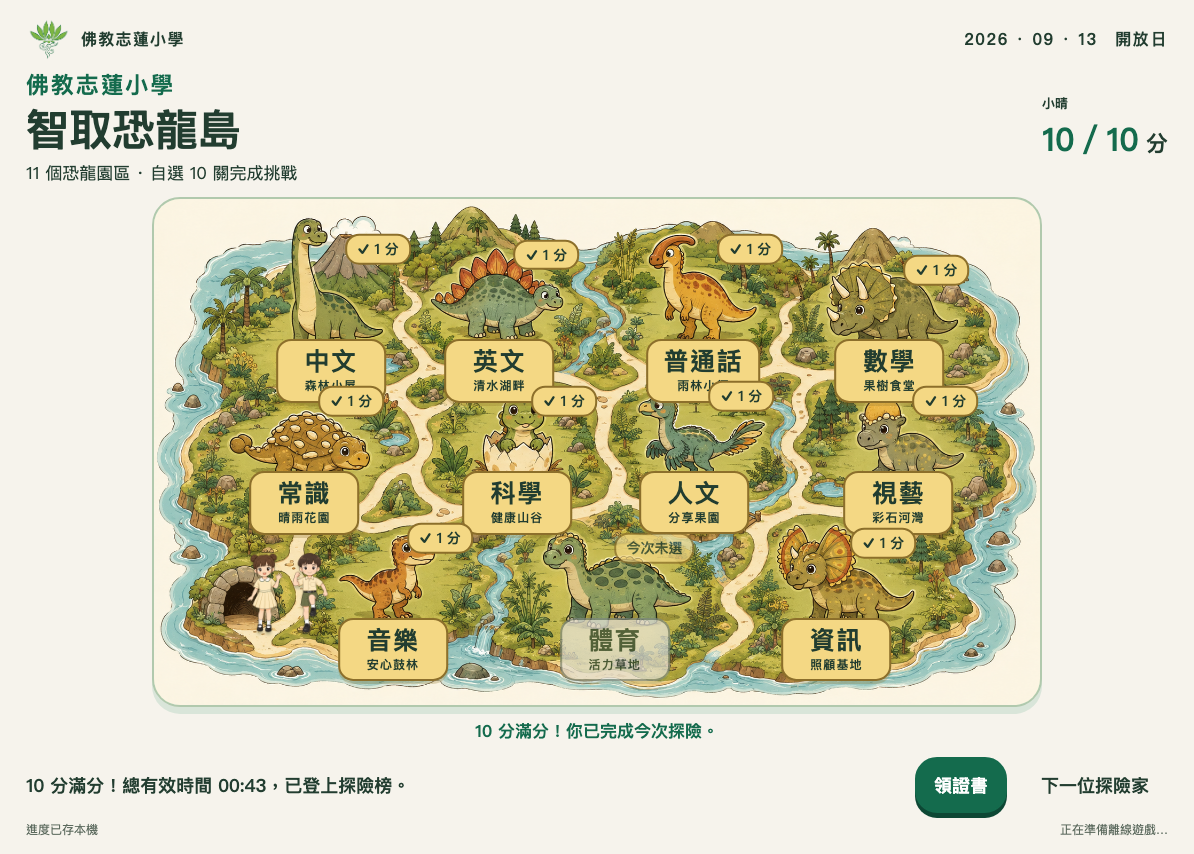
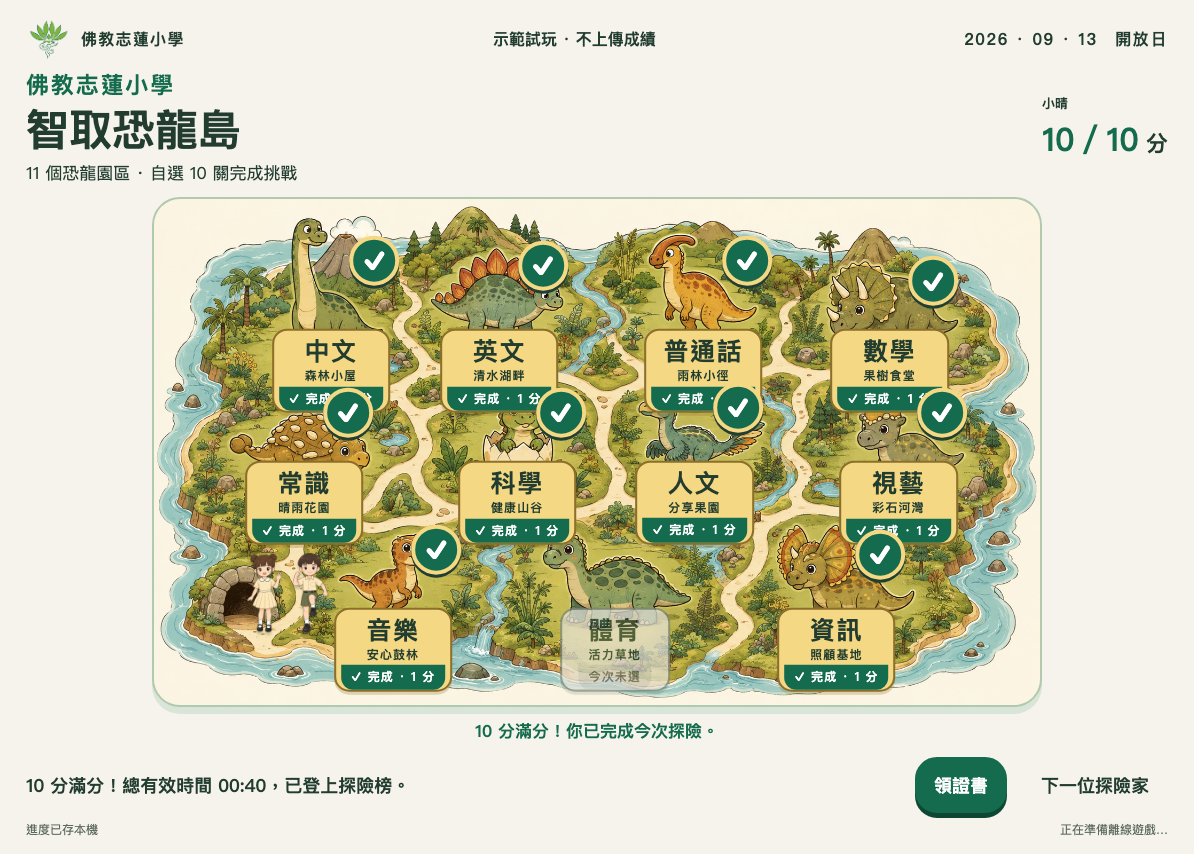
Clarify completed park status

diff --git a/shared/style.css b/shared/style.css
@@ -1,4 +1,4 @@
-:root{--cream:#f6f3ec;--green:#146b4d;--ink:#223d30;--gold:#b8923a;--pale:#e7eddc;--line:#243f31;font-family:"PingFang HK","Noto Sans HK","Microsoft JhengHei",system-ui,sans-serif;color:var(--ink);background:var(--cream);font-synthesis:none}*{box-sizing:border-box}body{margin:0}button,input,a{font:inherit}button,a,input{-webkit-tap-highlight-color:transparent}button{cursor:pointer;touch-action:manipulation}button:disabled{cursor:default;opacity:.5}button:focus-visible,a:focus-visible,input:focus-visible{outline:5px solid #dcaf3d;outline-offset:5px}button{color:var(--ink)}a{color:var(--green)}h1,h2,p{margin:0}h1{font-size:clamp(36px,5vw,68px);line-height:1.14;letter-spacing:.035em}h2{font-size:clamp(26px,3vw,42px)}p{line-height:1.65}button{border:2px solid var(--line);background:var(--cream);border-radius:22px;min-height:64px;padding:12px 23px;font-weight:700;font-size:20px}.primary{background:var(--green);color:white;border-color:var(--green);box-shadow:0 5px 0 #0d4734}.gold{background:#e9cd78;color:var(--ink)}.quiet{background:transparent;border-color:transparent}.icon{width:58px;height:58px;vertical-align:middle;flex-shrink:0}.small-icon{width:27px;height:27px}.eyebrow{font-size:16px;letter-spacing:.17em;font-weight:800;color:var(--green)}.shell{max-width:1400px;margin:auto;padding:24px 34px;min-height:100svh}.topbar{display:flex;align-items:center;justify-content:space-between;gap:16px;margin-bottom:16px}.brand{font-weight:800;letter-spacing:.08em;display:flex;gap:10px;align-items:center}.brand img{width:45px;height:45px;object-fit:contain}.date{font-size:16px;font-weight:700;letter-spacing:.1em}.subtle{font-size:14px;color:#5d6b5f}.pill{padding:10px 18px;border:1px solid #c7ceba;border-radius:40px;background:#fff9;white-space:nowrap}.welcome{min-height:calc(100svh - 100px);display:grid;grid-template-columns:1.04fr 1fr;gap:20px;align-items:center}.welcome-copy{padding:20px 0}.welcome h1{margin:17px 0 20px}.welcome .question{max-width:490px;font-size:22px}.nickname{margin-top:28px;max-width:465px}.nickname label{display:block;font-weight:700;margin-bottom:10px}.input-wrap{display:flex;align-items:center;border:2px solid #aab59c;background:#fff;border-radius:19px;padding-right:18px}.nickname input{width:100%;border:0;background:none;font-size:26px;padding:17px;min-width:0;outline:none}.nickname .primary{margin-top:15px;width:100%;font-size:25px;min-height:74px}.nickname .subtle{margin-top:10px}.welcome-art{position:relative;min-height:470px;border-radius:50% 50% 44% 46%;background:#e4ebd7;overflow:hidden;border:1px solid #d1dbbf}.welcome-art:before{content:"";position:absolute;inset:60% -15% -35%;background:#cbd8b2;border-radius:50%}.character{object-fit:contain;user-select:none;-webkit-user-drag:none;pointer-events:none}.welcome-art .boy{position:absolute;width:63%;height:82%;left:0;bottom:7%;z-index:1}.welcome-art .dino{position:absolute;width:53%;height:65%;right:-1%;bottom:2%;z-index:2}.art-label{position:absolute;left:25%;top:23px;transform:rotate(-5deg);background:var(--cream);border:2px solid var(--ink);border-radius:16px;padding:10px 18px;font-size:20px;font-weight:bold;z-index:3}.bottom-note{display:flex;gap:16px;align-items:center;justify-content:space-between;margin-top:16px}.progress-label{font-size:22px;font-weight:800}.progress-label strong{color:var(--green);font-size:32px}.park-page{padding:16px 26px}.park-page .topbar{margin-bottom:9px}.map-header{display:flex;justify-content:space-between;align-items:center;gap:12px;margin-bottom:10px}.map-header h2{font-size:clamp(34px,3.6vw,46px);line-height:1.2;margin:3px 0}.map-header p:not(.eyebrow){font-size:17px}.map-header .eyebrow{font-size:13px}.map-header>div:first-child{flex:1}.map-header>.progress-label{white-space:nowrap}.map-viewport{width:min(100%,calc((100svh - 325px)*1.75));min-width:min(100%,735px);max-width:1225px;margin-inline:auto;overflow:hidden;border:2px solid #b1c9ad;border-radius:28px;background:#a8d5d4;box-shadow:0 7px 0 #d9e5d9}.map-island{position:relative;height:auto;aspect-ratio:7/4;background:#cbdcaa url('../hub/img/map/island-path.png') center/100% 100% no-repeat;isolation:isolate}.stone{position:absolute;transform:translate(-50%,-50%);width:18%;height:25%;min-height:100px;padding:0;border:0;border-radius:35% 40% 28% 32%;background:transparent;box-shadow:none;display:flex;align-items:flex-end;justify-content:center;transition:background .15s;isolation:isolate}.stone:hover:not(:disabled){background:#fff9df28;transform:translate(-50%,-50%)}.stone:focus-visible{outline:5px solid #146b4d;outline-offset:2px;background:#fff9df33}.park-label{position:absolute;top:var(--label-top);transform:translateY(-50%);display:flex;flex-direction:column;align-items:center;justify-content:center;min-width:110px;padding:5px 15px 7px;border:2px solid #236949;border-radius:15px;background:#fffbedee;box-shadow:0 3px 0 #235e4533;line-height:1.2;pointer-events:auto}.park-label strong{font-size:clamp(20px,2.1vw,29px);font-weight:900;letter-spacing:.06em}.park-label>span{font-size:12px;letter-spacing:.09em;margin-top:3px;font-weight:600}.stone.done .park-label{background:#f4d884;border-color:#8c6f2b;box-shadow:0 3px 0 #8b702744}.stone.active .park-label{box-shadow:0 0 0 5px #f4d171,0 4px 0 #a78a37}.park-status{position:absolute;right:0;top:2%;padding:5px 10px;border-radius:14px;background:#f4d884;border:2px solid #8c6f2b;font-size:14px;line-height:1.2;font-weight:800;pointer-events:none}.map-entry{position:absolute;left:6%;top:85%;font-size:14px;font-weight:800;color:var(--green);background:#fffbeddd;border-radius:12px;padding:3px 10px;white-space:nowrap;pointer-events:none}.map-scroll-hint{display:none}.map-progress{margin-top:12px}.map-progress .progress-label{font-size:18px}.map-progress button{min-height:56px;font-size:18px;padding:9px 17px}.park-page>footer{margin-top:8px}.park-page>footer .subtle{font-size:12px}.game-top{display:flex;gap:16px;align-items:center}.game-top button{padding:8px 12px;display:flex;align-items:center;gap:7px;font-size:18px}.game-top button .icon{width:30px;height:30px}.parent-line{font-size:18px;margin:10px 0 16px}.parent-line span{color:var(--green);font-weight:800;margin-right:12px}.game-panel{background:#e6ecd9;border:2px solid #becbad;border-radius:36px;min-height:540px;padding:24px;position:relative;overflow:hidden}.rounds{display:flex;gap:10px;align-items:center}.round-dot{height:13px;width:13px;border-radius:50%;background:#bec9ad}.round-dot.done{background:var(--green)}.game-instruction{text-align:center;margin:6px auto 16px;font-size:27px;font-weight:800}.stage{display:flex;align-items:center;justify-content:center;gap:24px;min-height:245px;position:relative}.companion{height:240px;width:200px;object-fit:contain}.dino-target{border:0;background:none;padding:0;position:relative;width:250px;height:250px;min-height:0;border-radius:45%;touch-action:none}.dino-target img{width:100%;height:100%;object-fit:contain;pointer-events:none}.dino-target.selected-target{outline:5px dashed var(--gold);outline-offset:7px}.need{position:absolute;top:-18px;right:-32px;border:2px solid var(--green);background:var(--cream);border-radius:25px;padding:8px;min-width:75px;text-align:center}.need .icon{width:53px;height:53px}.need strong{font-size:38px}.need.observed{box-shadow:0 0 0 5px #e8c971}.props{position:absolute;inset:0;pointer-events:none}.props .icon{position:absolute;width:75px;height:75px;bottom:12%;left:25%}.props .icon.hat-prop{top:-6%;left:35%;width:90px;height:90px}.choices{display:flex;flex-wrap:wrap;justify-content:center;gap:16px;margin:18px auto 5px}.choice{width:106px;height:106px;padding:10px;min-height:0;touch-action:none;background:#fffaf0;box-shadow:0 4px 0 #bdc8a9;border-radius:25px;user-select:none}.choice .icon{width:75px;height:75px;pointer-events:none}.choice.chosen{outline:5px solid var(--gold);transform:translateY(-5px)}.choice.used{visibility:hidden}.drag-ghost{position:fixed;width:80px;height:80px;pointer-events:none;z-index:50;transform:translate(-50%,-50%)}.feedback{min-height:34px;text-align:center;font-size:19px;font-weight:700;color:#346447;margin-top:12px}.sound-row{text-align:center;margin-top:8px}.sound-row button{min-height:52px;padding:8px 16px;font-size:17px}.sound-row .icon{width:26px;height:26px}.complete{display:flex;flex-direction:column;text-align:center;align-items:center;gap:17px;padding:16px}.complete h2{color:var(--green)}.complete p{font-size:25px;max-width:730px}.complete .stage{min-height:240px}.complete .landmark-greeting{width:130px;height:150px;object-fit:contain}.actions{display:flex;justify-content:center;gap:15px;flex-wrap:wrap}.trace-layout{display:flex;justify-content:center;gap:40px;align-items:center}.trace-board{width:min(43vw,340px);height:min(43vw,340px);background:#fffaf0;border:3px solid #b4be9f;border-radius:24px;touch-action:none}.trace-board .gridline{stroke:#d9dbc9;stroke-width:1;stroke-dasharray:4 5}.trace-board .guide{fill:none;stroke:#e4e2d5;stroke-width:16;stroke-linecap:round;stroke-linejoin:round}.trace-board .guide.passed{stroke:var(--green)}.trace-board .guide.current{stroke:#d1a943;stroke-dasharray:10 6}.trace-board .ink{fill:none;stroke:var(--green);stroke-width:11;stroke-linecap:round;stroke-linejoin:round;pointer-events:none}.trace-board .start{fill:var(--green);stroke:var(--cream);stroke-width:3}.trace-board .demonstrator{fill:#fff;stroke:var(--gold);stroke-width:5;pointer-events:none}.trace-side{max-width:210px;text-align:center}.trace-side img{height:170px;max-width:180px}.trace-side p{margin-top:8px}.drum{width:140px;height:140px;background:#d5deb9;transition:background .1s,transform .1s}.drum.lit{background:#f4d56f;transform:scale(1.06);box-shadow:0 0 0 6px #fff5b2}.drum .icon{width:95px;height:95px}.countdown{font-size:70px;font-weight:900;color:var(--green);min-width:95px}.hold-button{min-width:230px;position:relative;overflow:hidden;touch-action:none;user-select:none;background:linear-gradient(90deg,#e9cd78 var(--hold,0%),var(--cream) var(--hold,0%))}.hold-button:disabled{opacity:.6}.paint-stone{width:170px;height:170px;border:4px dashed var(--green);border-radius:30px;background:#f5f1db;touch-action:none;position:relative;overflow:hidden}.paint-stone svg{width:100%;height:100%}.swatch{width:85px;height:75px;border:3px solid var(--green);border-radius:50%;padding:0}.swatch.chosen{outline:4px solid var(--gold);outline-offset:4px}.river{background:#b5d9d9;border-radius:24px;display:flex;gap:15px;padding:20px;align-items:center}.bridge-slot{width:95px;height:95px;border:3px dashed #477e80;border-radius:20px;display:grid;place-items:center}.bridge-slot.filled{border-style:solid;background:var(--stone-color)}.bridge-slot .icon{width:70px;height:70px}.cert-layout{display:grid;grid-template-columns:minmax(300px,480px) 1fr;gap:32px;align-items:start;max-width:1080px;margin:20px auto}.cert-preview{width:100%;border-radius:15px;box-shadow:0 8px 25px #263f3120;background:#fff}.cert-controls{display:flex;flex-direction:column;gap:15px}.cert-controls p{font-size:18px}.cert-controls .actions{justify-content:flex-start}.camera-view{width:100%;max-height:330px;background:#233b2e;border-radius:20px;object-fit:cover;transform:scaleX(-1)}.qr-wrap{background:white;padding:20px;border-radius:20px;text-align:center}.qr-wrap svg{max-width:230px;width:100%;height:auto}.notice{padding:14px 18px;border-radius:15px;background:#e9eedf;border:1px solid #c6d0ba;font-size:17px}.notice.error{background:#f7e4d5}.hidden{display:none!important}#toast{position:fixed;bottom:20px;left:50%;transform:translateX(-50%);background:var(--ink);color:white;padding:14px 24px;border-radius:18px;z-index:99;max-width:90vw;pointer-events:none;font-size:18px}#toast:empty{display:none}dialog{border:2px solid var(--green);border-radius:26px;max-width:min(90vw,530px);padding:28px;background:var(--cream);color:var(--ink)}dialog::backdrop{background:#173f2e88}dialog h2{font-size:28px;margin-bottom:15px}dialog p{font-size:19px;margin-bottom:22px}.asset-missing{visibility:hidden}.setup{max-width:780px;margin:auto;padding:30px}.setup label{display:block;font-weight:700;margin-top:20px}.setup input{width:100%;padding:16px;font-size:18px;border:2px solid #b4be9f;border-radius:14px;margin:8px 0}.setup .actions{margin:25px 0}.game-footer{display:flex;justify-content:space-between;gap:15px;align-items:center;margin-top:15px}.care-tag{font-size:15px;letter-spacing:.06em;color:#506c51}.round-celebrate{animation:arrive .5s ease}.is-happy{animation:bob 1s ease infinite}.is-sharing{animation:share .8s ease}.is-crossing{animation:cross 1.6s ease forwards}@keyframes arrive{from{opacity:.2;transform:translateY(15px)}to{opacity:1;transform:none}}@keyframes bob{50%{transform:translateY(-8px)}}@keyframes share{50%{transform:translateX(20px)}}@keyframes cross{to{transform:translateX(80px)}}@media(prefers-reduced-motion:reduce){*,*::before,*::after{animation:none!important;transition:none!important}}@media(max-width:900px){.shell{padding:20px}.welcome{gap:10px}.welcome-art{min-height:390px}.welcome .question{font-size:20px}.park-page{padding:16px}.park-label{min-width:100px;padding:5px 10px}.park-label strong{font-size:21px}.game-panel{padding:17px}.stage{gap:8px}.companion{width:165px;height:210px}.dino-target{width:230px;height:230px}.cert-layout{gap:20px}.trace-layout{gap:18px}}@media(max-width:620px){.shell{padding:15px}.welcome{grid-template-columns:1fr}.welcome-art{min-height:310px;grid-row:2}.welcome-copy{padding:5px}.welcome h1{font-size:44px}.welcome .question{font-size:19px}.topbar{align-items:flex-start}.date{font-size:14px}.map-header{flex-wrap:wrap}.map-viewport{width:100%;min-width:0;max-width:none;overflow-x:auto;border-radius:20px;overscroll-behavior-x:contain}.map-island{width:850px;height:auto;min-height:0}.map-scroll-hint{display:block;font-size:14px;margin-top:9px;color:var(--green)}.map-header h2{font-size:36px}.map-header>div:first-child{flex-basis:100%}.map-header p:not(.eyebrow){font-size:15px}.map-header .progress-label{margin-left:auto}.map-progress .actions{justify-content:flex-start}.bottom-note{flex-wrap:wrap}.game-top{gap:8px}.game-top h2{font-size:25px}.parent-line{font-size:16px}.game-panel{padding:16px 8px;border-radius:24px}.stage{gap:0;min-height:210px}.companion{width:125px;height:185px}.dino-target{width:195px;height:210px}.need{right:-8px;top:-10px}.choice{width:82px;height:87px;padding:5px}.choice .icon{width:64px;height:64px}.choices{gap:10px}.game-instruction{font-size:23px}.trace-layout{gap:8px;flex-wrap:wrap}.trace-board{width:290px;height:290px}.trace-side{display:none}.cert-layout{grid-template-columns:1fr}.cert-preview{max-width:420px;margin:auto}.game-footer{flex-wrap:wrap}.drum{width:95px;height:100px}.drum .icon{width:70px;height:70px}.river{gap:5px;padding:10px}.bridge-slot{width:75px;height:75px}.game-top button{font-size:0}.game-top button .icon{width:32px}.progress-label{font-size:18px}}
+:root{--cream:#f6f3ec;--green:#146b4d;--ink:#223d30;--gold:#b8923a;--pale:#e7eddc;--line:#243f31;font-family:"PingFang HK","Noto Sans HK","Microsoft JhengHei",system-ui,sans-serif;color:var(--ink);background:var(--cream);font-synthesis:none}*{box-sizing:border-box}body{margin:0}button,input,a{font:inherit}button,a,input{-webkit-tap-highlight-color:transparent}button{cursor:pointer;touch-action:manipulation}button:disabled{cursor:default;opacity:.5}button:focus-visible,a:focus-visible,input:focus-visible{outline:5px solid #dcaf3d;outline-offset:5px}button{color:var(--ink)}a{color:var(--green)}h1,h2,p{margin:0}h1{font-size:clamp(36px,5vw,68px);line-height:1.14;letter-spacing:.035em}h2{font-size:clamp(26px,3vw,42px)}p{line-height:1.65}button{border:2px solid var(--line);background:var(--cream);border-radius:22px;min-height:64px;padding:12px 23px;font-weight:700;font-size:20px}.primary{background:var(--green);color:white;border-color:var(--green);box-shadow:0 5px 0 #0d4734}.gold{background:#e9cd78;color:var(--ink)}.quiet{background:transparent;border-color:transparent}.icon{width:58px;height:58px;vertical-align:middle;flex-shrink:0}.small-icon{width:27px;height:27px}.eyebrow{font-size:16px;letter-spacing:.17em;font-weight:800;color:var(--green)}.shell{max-width:1400px;margin:auto;padding:24px 34px;min-height:100svh}.topbar{display:flex;align-items:center;justify-content:space-between;gap:16px;margin-bottom:16px}.brand{font-weight:800;letter-spacing:.08em;display:flex;gap:10px;align-items:center}.brand img{width:45px;height:45px;object-fit:contain}.date{font-size:16px;font-weight:700;letter-spacing:.1em}.subtle{font-size:14px;color:#5d6b5f}.pill{padding:10px 18px;border:1px solid #c7ceba;border-radius:40px;background:#fff9;white-space:nowrap}.welcome{min-height:calc(100svh - 100px);display:grid;grid-template-columns:1.04fr 1fr;gap:20px;align-items:center}.welcome-copy{padding:20px 0}.welcome h1{margin:17px 0 20px}.welcome .question{max-width:490px;font-size:22px}.nickname{margin-top:28px;max-width:465px}.nickname label{display:block;font-weight:700;margin-bottom:10px}.input-wrap{display:flex;align-items:center;border:2px solid #aab59c;background:#fff;border-radius:19px;padding-right:18px}.nickname input{width:100%;border:0;background:none;font-size:26px;padding:17px;min-width:0;outline:none}.nickname .primary{margin-top:15px;width:100%;font-size:25px;min-height:74px}.nickname .subtle{margin-top:10px}.welcome-art{position:relative;min-height:470px;border-radius:50% 50% 44% 46%;background:#e4ebd7;overflow:hidden;border:1px solid #d1dbbf}.welcome-art:before{content:"";position:absolute;inset:60% -15% -35%;background:#cbd8b2;border-radius:50%}.character{object-fit:contain;user-select:none;-webkit-user-drag:none;pointer-events:none}.welcome-art .boy{position:absolute;width:63%;height:82%;left:0;bottom:7%;z-index:1}.welcome-art .dino{position:absolute;width:53%;height:65%;right:-1%;bottom:2%;z-index:2}.art-label{position:absolute;left:25%;top:23px;transform:rotate(-5deg);background:var(--cream);border:2px solid var(--ink);border-radius:16px;padding:10px 18px;font-size:20px;font-weight:bold;z-index:3}.bottom-note{display:flex;gap:16px;align-items:center;justify-content:space-between;margin-top:16px}.progress-label{font-size:22px;font-weight:800}.progress-label strong{color:var(--green);font-size:32px}.park-page{padding:16px 26px}.park-page .topbar{margin-bottom:9px}.map-header{display:flex;justify-content:space-between;align-items:center;gap:12px;margin-bottom:10px}.map-header h2{font-size:clamp(34px,3.6vw,46px);line-height:1.2;margin:3px 0}.map-header p:not(.eyebrow){font-size:17px}.map-header .eyebrow{font-size:13px}.map-header>div:first-child{flex:1}.map-header>.progress-label{white-space:nowrap}.map-viewport{width:min(100%,calc((100svh - 325px)*1.75));min-width:min(100%,735px);max-width:1225px;margin-inline:auto;overflow:hidden;border:2px solid #b1c9ad;border-radius:28px;background:#a8d5d4;box-shadow:0 7px 0 #d9e5d9}.map-island{position:relative;height:auto;aspect-ratio:7/4;background:#cbdcaa url('../hub/img/map/island-path.png') center/100% 100% no-repeat;isolation:isolate}.stone{position:absolute;transform:translate(-50%,-50%);width:18%;height:25%;min-height:100px;padding:0;border:0;border-radius:35% 40% 28% 32%;background:transparent;box-shadow:none;display:flex;align-items:flex-end;justify-content:center;transition:background .15s;isolation:isolate}.stone:hover:not(:disabled){background:#fff9df28;transform:translate(-50%,-50%)}.stone:focus-visible{outline:5px solid #146b4d;outline-offset:2px;background:#fff9df33}.park-label{position:absolute;top:var(--label-top);transform:translateY(-50%);display:flex;flex-direction:column;align-items:center;justify-content:center;min-width:110px;padding:5px 15px 7px;border:2px solid #236949;border-radius:15px;background:#fffbedee;box-shadow:0 3px 0 #235e4533;line-height:1.2;pointer-events:auto}.park-label strong{font-size:clamp(20px,2.1vw,29px);font-weight:900;letter-spacing:.06em}.park-label>span{font-size:12px;letter-spacing:.09em;margin-top:3px;font-weight:600}.stone.done .park-label{background:#f4d884;border-color:#8c6f2b;box-shadow:0 3px 0 #8b702744}.stone.active .park-label{box-shadow:0 0 0 5px #f4d171,0 4px 0 #a78a37}.park-status{display:block;margin:6px -10px -7px;padding:5px 10px;border-radius:0 0 12px 12px;background:#f4d884;color:#294032;font-size:13px;line-height:1.2;font-weight:900;white-space:nowrap;pointer-events:none}.map-entry{position:absolute;left:6%;top:85%;font-size:14px;font-weight:800;color:var(--green);background:#fffbeddd;border-radius:12px;padding:3px 10px;white-space:nowrap;pointer-events:none}.map-scroll-hint{display:none}.map-progress{margin-top:12px}.map-progress .progress-label{font-size:18px}.map-progress button{min-height:56px;font-size:18px;padding:9px 17px}.park-page>footer{margin-top:8px}.park-page>footer .subtle{font-size:12px}.game-top{display:flex;gap:16px;align-items:center}.game-top button{padding:8px 12px;display:flex;align-items:center;gap:7px;font-size:18px}.game-top button .icon{width:30px;height:30px}.parent-line{font-size:18px;margin:10px 0 16px}.parent-line span{color:var(--green);font-weight:800;margin-right:12px}.game-panel{background:#e6ecd9;border:2px solid #becbad;border-radius:36px;min-height:540px;padding:24px;position:relative;overflow:hidden}.rounds{display:flex;gap:10px;align-items:center}.round-dot{height:13px;width:13px;border-radius:50%;background:#bec9ad}.round-dot.done{background:var(--green)}.game-instruction{text-align:center;margin:6px auto 16px;font-size:27px;font-weight:800}.stage{display:flex;align-items:center;justify-content:center;gap:24px;min-height:245px;position:relative}.companion{height:240px;width:200px;object-fit:contain}.dino-target{border:0;background:none;padding:0;position:relative;width:250px;height:250px;min-height:0;border-radius:45%;touch-action:none}.dino-target img{width:100%;height:100%;object-fit:contain;pointer-events:none}.dino-target.selected-target{outline:5px dashed var(--gold);outline-offset:7px}.need{position:absolute;top:-18px;right:-32px;border:2px solid var(--green);background:var(--cream);border-radius:25px;padding:8px;min-width:75px;text-align:center}.need .icon{width:53px;height:53px}.need strong{font-size:38px}.need.observed{box-shadow:0 0 0 5px #e8c971}.props{position:absolute;inset:0;pointer-events:none}.props .icon{position:absolute;width:75px;height:75px;bottom:12%;left:25%}.props .icon.hat-prop{top:-6%;left:35%;width:90px;height:90px}.choices{display:flex;flex-wrap:wrap;justify-content:center;gap:16px;margin:18px auto 5px}.choice{width:106px;height:106px;padding:10px;min-height:0;touch-action:none;background:#fffaf0;box-shadow:0 4px 0 #bdc8a9;border-radius:25px;user-select:none}.choice .icon{width:75px;height:75px;pointer-events:none}.choice.chosen{outline:5px solid var(--gold);transform:translateY(-5px)}.choice.used{visibility:hidden}.drag-ghost{position:fixed;width:80px;height:80px;pointer-events:none;z-index:50;transform:translate(-50%,-50%)}.feedback{min-height:34px;text-align:center;font-size:19px;font-weight:700;color:#346447;margin-top:12px}.sound-row{text-align:center;margin-top:8px}.sound-row button{min-height:52px;padding:8px 16px;font-size:17px}.sound-row .icon{width:26px;height:26px}.complete{display:flex;flex-direction:column;text-align:center;align-items:center;gap:17px;padding:16px}.complete h2{color:var(--green)}.complete p{font-size:25px;max-width:730px}.complete .stage{min-height:240px}.complete .landmark-greeting{width:130px;height:150px;object-fit:contain}.actions{display:flex;justify-content:center;gap:15px;flex-wrap:wrap}.trace-layout{display:flex;justify-content:center;gap:40px;align-items:center}.trace-board{width:min(43vw,340px);height:min(43vw,340px);background:#fffaf0;border:3px solid #b4be9f;border-radius:24px;touch-action:none}.trace-board .gridline{stroke:#d9dbc9;stroke-width:1;stroke-dasharray:4 5}.trace-board .guide{fill:none;stroke:#e4e2d5;stroke-width:16;stroke-linecap:round;stroke-linejoin:round}.trace-board .guide.passed{stroke:var(--green)}.trace-board .guide.current{stroke:#d1a943;stroke-dasharray:10 6}.trace-board .ink{fill:none;stroke:var(--green);stroke-width:11;stroke-linecap:round;stroke-linejoin:round;pointer-events:none}.trace-board .start{fill:var(--green);stroke:var(--cream);stroke-width:3}.trace-board .demonstrator{fill:#fff;stroke:var(--gold);stroke-width:5;pointer-events:none}.trace-side{max-width:210px;text-align:center}.trace-side img{height:170px;max-width:180px}.trace-side p{margin-top:8px}.drum{width:140px;height:140px;background:#d5deb9;transition:background .1s,transform .1s}.drum.lit{background:#f4d56f;transform:scale(1.06);box-shadow:0 0 0 6px #fff5b2}.drum .icon{width:95px;height:95px}.countdown{font-size:70px;font-weight:900;color:var(--green);min-width:95px}.hold-button{min-width:230px;position:relative;overflow:hidden;touch-action:none;user-select:none;background:linear-gradient(90deg,#e9cd78 var(--hold,0%),var(--cream) var(--hold,0%))}.hold-button:disabled{opacity:.6}.paint-stone{width:170px;height:170px;border:4px dashed var(--green);border-radius:30px;background:#f5f1db;touch-action:none;position:relative;overflow:hidden}.paint-stone svg{width:100%;height:100%}.swatch{width:85px;height:75px;border:3px solid var(--green);border-radius:50%;padding:0}.swatch.chosen{outline:4px solid var(--gold);outline-offset:4px}.river{background:#b5d9d9;border-radius:24px;display:flex;gap:15px;padding:20px;align-items:center}.bridge-slot{width:95px;height:95px;border:3px dashed #477e80;border-radius:20px;display:grid;place-items:center}.bridge-slot.filled{border-style:solid;background:var(--stone-color)}.bridge-slot .icon{width:70px;height:70px}.cert-layout{display:grid;grid-template-columns:minmax(300px,480px) 1fr;gap:32px;align-items:start;max-width:1080px;margin:20px auto}.cert-preview{width:100%;border-radius:15px;box-shadow:0 8px 25px #263f3120;background:#fff}.cert-controls{display:flex;flex-direction:column;gap:15px}.cert-controls p{font-size:18px}.cert-controls .actions{justify-content:flex-start}.camera-view{width:100%;max-height:330px;background:#233b2e;border-radius:20px;object-fit:cover;transform:scaleX(-1)}.qr-wrap{background:white;padding:20px;border-radius:20px;text-align:center}.qr-wrap svg{max-width:230px;width:100%;height:auto}.notice{padding:14px 18px;border-radius:15px;background:#e9eedf;border:1px solid #c6d0ba;font-size:17px}.notice.error{background:#f7e4d5}.hidden{display:none!important}#toast{position:fixed;bottom:20px;left:50%;transform:translateX(-50%);background:var(--ink);color:white;padding:14px 24px;border-radius:18px;z-index:99;max-width:90vw;pointer-events:none;font-size:18px}#toast:empty{display:none}dialog{border:2px solid var(--green);border-radius:26px;max-width:min(90vw,530px);padding:28px;background:var(--cream);color:var(--ink)}dialog::backdrop{background:#173f2e88}dialog h2{font-size:28px;margin-bottom:15px}dialog p{font-size:19px;margin-bottom:22px}.asset-missing{visibility:hidden}.setup{max-width:780px;margin:auto;padding:30px}.setup label{display:block;font-weight:700;margin-top:20px}.setup input{width:100%;padding:16px;font-size:18px;border:2px solid #b4be9f;border-radius:14px;margin:8px 0}.setup .actions{margin:25px 0}.game-footer{display:flex;justify-content:space-between;gap:15px;align-items:center;margin-top:15px}.care-tag{font-size:15px;letter-spacing:.06em;color:#506c51}.round-celebrate{animation:arrive .5s ease}.is-happy{animation:bob 1s ease infinite}.is-sharing{animation:share .8s ease}.is-crossing{animation:cross 1.6s ease forwards}@keyframes arrive{from{opacity:.2;transform:translateY(15px)}to{opacity:1;transform:none}}@keyframes bob{50%{transform:translateY(-8px)}}@keyframes share{50%{transform:translateX(20px)}}@keyframes cross{to{transform:translateX(80px)}}@media(prefers-reduced-motion:reduce){*,*::before,*::after{animation:none!important;transition:none!important}}@media(max-width:900px){.shell{padding:20px}.welcome{gap:10px}.welcome-art{min-height:390px}.welcome .question{font-size:20px}.park-page{padding:16px}.park-label{min-width:100px;padding:5px 10px}.park-label strong{font-size:21px}.game-panel{padding:17px}.stage{gap:8px}.companion{width:165px;height:210px}.dino-target{width:230px;height:230px}.cert-layout{gap:20px}.trace-layout{gap:18px}}@media(max-width:620px){.shell{padding:15px}.welcome{grid-template-columns:1fr}.welcome-art{min-height:310px;grid-row:2}.welcome-copy{padding:5px}.welcome h1{font-size:44px}.welcome .question{font-size:19px}.topbar{align-items:flex-start}.date{font-size:14px}.map-header{flex-wrap:wrap}.map-viewport{width:100%;min-width:0;max-width:none;overflow-x:auto;border-radius:20px;overscroll-behavior-x:contain}.map-island{width:850px;height:auto;min-height:0}.map-scroll-hint{display:block;font-size:14px;margin-top:9px;color:var(--green)}.map-header h2{font-size:36px}.map-header>div:first-child{flex-basis:100%}.map-header p:not(.eyebrow){font-size:15px}.map-header .progress-label{margin-left:auto}.map-progress .actions{justify-content:flex-start}.bottom-note{flex-wrap:wrap}.game-top{gap:8px}.game-top h2{font-size:25px}.parent-line{font-size:16px}.game-panel{padding:16px 8px;border-radius:24px}.stage{gap:0;min-height:210px}.companion{width:125px;height:185px}.dino-target{width:195px;height:210px}.need{right:-8px;top:-10px}.choice{width:82px;height:87px;padding:5px}.choice .icon{width:64px;height:64px}.choices{gap:10px}.game-instruction{font-size:23px}.trace-layout{gap:8px;flex-wrap:wrap}.trace-board{width:290px;height:290px}.trace-side{display:none}.cert-layout{grid-template-columns:1fr}.cert-preview{max-width:420px;margin:auto}.game-footer{flex-wrap:wrap}.drum{width:95px;height:100px}.drum .icon{width:70px;height:70px}.river{gap:5px;padding:10px}.bridge-slot{width:75px;height:75px}.game-top button{font-size:0}.game-top button .icon{width:32px}.progress-label{font-size:18px}}
 
 #name-count{white-space:nowrap;flex-shrink:0;min-width:43px}.nickname input{flex:1}
 
@@ -18,4 +18,7 @@
 .stone.travelling .park-label{background:#f4d884;box-shadow:0 0 0 5px #fff4bb}
 .stone.locked{opacity:.72}
 .stone.locked .park-label{background:#e4e2d8;border-color:#7b877c}
+.stone.done .park-status{background:var(--green);color:#fff}
+.stone.done::after{content:"✓";position:absolute;right:7%;top:3%;display:grid;place-items:center;width:42px;height:42px;border:4px solid #f4d884;border-radius:50%;background:var(--green);color:#fff;font-size:26px;font-weight:900;box-shadow:0 3px 0 #203e31;pointer-events:none}
+.stone.locked .park-status{background:#cdd0c9;color:#566057}
 .map-island[aria-busy="true"] .stone{cursor:wait}

diff --git a/hub/app.js b/hub/app.js
@@ -25,7 +25,7 @@ const parkZones=[
 ];
 function map(){
  const t=totals(player),finished=t.scoreReady;
- shell(`<div class="map-header"><div><p class="map-school">${SCHOOL}</p><h2>智取恐龍島</h2><p>11 個恐龍園區 · 自選 10 關完成挑戰</p></div><div class="progress-label"><span class="map-player">${escapeHTML(player.name)}</span><strong>${t.zonesCompleted}／${SCORE_TARGET}</strong> 分</div></div><div class="map-viewport" role="region" aria-label="恐龍島十一個園區地圖"><div class="map-island"><div class="park-guides" aria-label="小蓮同小志帶你遊恐龍島"><img class="character guide-girl" src="img/chars/xiaolian-welcome.png" alt="導遊小蓮"><img class="character guide-boy" src="img/chars/xiaozhi-step.png" alt="導遊小志"></div>${ZONES.map((z,i)=>{const s=player.zones[z.id],park=parkZones[i],locked=finished&&!s?.complete;return `<button class="stone ${s?.complete?'done':locked?'locked':s?'active':''}" data-zone="${z.id}" ${s?.complete||locked?'disabled':''} style="left:${park[1]}%;top:${park[2]}%;--label-top:${50+(park[3]-park[2])*4}%" aria-label="${z.name}，${park[0]}，${s?.complete?'已完成':locked?'今次未選':s?'繼續照顧':'前往園區'}"><span class="park-label"><strong>${z.name}</strong><span>${park[0]}</span></span>${s?.complete?'<span class="park-status">✓ 1 分</span>':locked?'<span class="park-status">今次未選</span>':s?'<span class="park-status">進行中</span>':''}</button>`;}).join('')}</div></div><p id="guide-status" class="guide-status" role="status">${finished?'10 分滿分！你已完成今次探險。':'撳一個園區，小蓮、小志帶你行過去！'}</p><p class="map-scroll-hint">左右移動地圖，揀你想去嘅園區。</p><div class="bottom-note map-progress"><p class="progress-label">${finished?`10 分滿分！總有效時間 ${formatTime(t.totalMs)}，已登上探險榜。`:t.certReady?`你已可領證書！再完成 ${SCORE_TARGET-t.zonesCompleted} 關就滿分。`:`再完成 ${6-t.zonesCompleted} 關就有證書`}</p><div class="actions">${t.certReady?'<button class="primary" id="certificate">領證書</button>':''}<button class="quiet" id="next-player">下一位探險家</button></div></div>`);
+ shell(`<div class="map-header"><div><p class="map-school">${SCHOOL}</p><h2>智取恐龍島</h2><p>11 個恐龍園區 · 自選 10 關完成挑戰</p></div><div class="progress-label"><span class="map-player">${escapeHTML(player.name)}</span><strong>${t.zonesCompleted}／${SCORE_TARGET}</strong> 分</div></div><div class="map-viewport" role="region" aria-label="恐龍島十一個園區地圖"><div class="map-island"><div class="park-guides" aria-label="小蓮同小志帶你遊恐龍島"><img class="character guide-girl" src="img/chars/xiaolian-welcome.png" alt="導遊小蓮"><img class="character guide-boy" src="img/chars/xiaozhi-step.png" alt="導遊小志"></div>${ZONES.map((z,i)=>{const s=player.zones[z.id],park=parkZones[i],locked=finished&&!s?.complete,status=s?.complete?'✓ 完成 · 1 分':locked?'今次未選':s?'進行中':'';return `<button class="stone ${s?.complete?'done':locked?'locked':s?'active':''}" data-zone="${z.id}" ${s?.complete||locked?'disabled':''} style="left:${park[1]}%;top:${park[2]}%;--label-top:${50+(park[3]-park[2])*4}%" aria-label="${z.name}，${park[0]}，${s?.complete?'已完成，取得一分':locked?'今次未選':s?'繼續照顧':'前往園區'}"><span class="park-label"><strong>${z.name}</strong><span>${park[0]}</span>${status?`<span class="park-status">${status}</span>`:''}</span></button>`;}).join('')}</div></div><p id="guide-status" class="guide-status" role="status">${finished?'10 分滿分！你已完成今次探險。':'撳一個園區，小蓮、小志帶你行過去！'}</p><p class="map-scroll-hint">左右移動地圖，揀你想去嘅園區。</p><div class="bottom-note map-progress"><p class="progress-label">${finished?`10 分滿分！總有效時間 ${formatTime(t.totalMs)}，已登上探險榜。`:t.certReady?`你已可領證書！再完成 ${SCORE_TARGET-t.zonesCompleted} 關就滿分。`:`再完成 ${6-t.zonesCompleted} 關就有證書`}</p><div class="actions">${t.certReady?'<button class="primary" id="certificate">領證書</button>':''}<button class="quiet" id="next-player">下一位探險家</button></div></div>`);
  document.querySelector('.shell').classList.add('park-page');
  const guides=mountParkGuides(document.querySelector('.map-island'),player,i=>{persist();location.hash='/play/'+ZONES[i].id;});
  cleanup=()=>guides.cleanup();

diff --git a/sw.js b/sw.js
@@ -1,5 +1,5 @@
 // Generated precache manifest. Rebuild whenever local assets change.
-const CACHE='dino-island-bb57db339667';
+const CACHE='dino-island-3ab5c1eab35d';
 const BASE=new URL('./',self.location.href);
 const ASSETS=["board/board.css","board/board.js","board/img/board-skin.png","board/index.html","hub/app.js","hub/certificate.js","hub/games.js","hub/img/chars/dino-baby-eat.png","hub/img/chars/dino-baby-sleep.png","hub/img/chars/dino-baby.png","hub/img/chars/landmark-hatch.png","hub/img/chars/landmark-longneck.png","hub/img/chars/landmark-triceratops.png","hub/img/chars/xiaolian-clap.png","hub/img/chars/xiaolian-color.png","hub/img/chars/xiaolian-highfive.png","hub/img/chars/xiaolian-point.png","hub/img/chars/xiaolian-welcome.png","hub/img/chars/xiaolian-write.png","hub/img/chars/xiaozhi-highfive.png","hub/img/chars/xiaozhi-jump.png","hub/img/chars/xiaozhi-run.png","hub/img/chars/xiaozhi-sit.png","hub/img/chars/xiaozhi-step.png","hub/img/chars/xiaozhi-stretch.png","hub/img/chars/xiaozhi-tablet.png","hub/img/chars/xiaozhi-welcome.png","hub/img/map/island-path.png","hub/img/ui/cert-frame.png","hub/index.html","hub/park-guides.js","index.html","setup/index.html","shared/config.js","shared/core.js","shared/icons.js","shared/img/school-logo.png","shared/network.js","shared/qrcode.js","shared/storage.js","shared/style.css","hub/","board/","setup/"].map(p=>new URL(p,BASE).href);
 self.addEventListener('install',e=>e.waitUntil(caches.open(CACHE).then(c=>c.addAll(ASSETS))));

diff --git a/docs/VALIDATION.md b/docs/VALIDATION.md
@@ -40,3 +40,5 @@
 地圖已改為 11 個不同恐龍園區，分岔彎路供自由選擇。標題區顯示「佛教志蓮小學」、「智取恐龍島」及小蓮、小志兩人。Chromium 在 1024×768、1194×834 檢查全部 11 個熱區可見、至少 64px、中心點正確進入科目；任意次序、完成鎖定、六站領證及手機橫向捲動均通過。詳見 park-map-test-results.json 及 screenshots/park-map-*.png。更新後已重新建立 44 項快取資源，離線重開、11 站資源及普通證書驗證通過；未取代實體 iPad 測試。
 
 導遊互動修訂：兩位角色在地圖道路上移動，到達後才開關。已驗證延遲進關、連撳保護、任意園區次序、返回原位置、減少動態、途中離開取消及無執行錯誤。
+
+完成狀態修訂：完成園區改用金色科目牌、牌內深綠「✓ 完成 · 1 分」橫章及固定圓形剔號；10 個完成標記與 1 個「今次未選」標記在 1194×834 畫面均完整顯示，文字沒有裁切。
